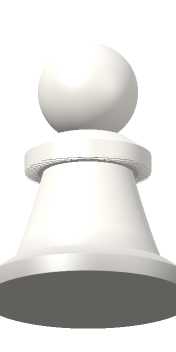
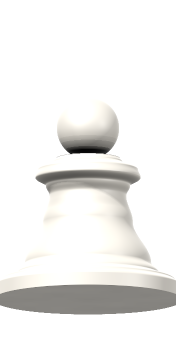
Hero: the chess pieces stand straight, and look more real
Each piece now undoes the board's turn as well as its tip, so it stands straight
to the eye. The renderer gains occlusion and self-shadow from the shape, a studio
reflection with a softbox, satin ivory with a faint grain, a clear coat on the
blue, Staunton curves and proportions, and a lighter lean toward the camera.

diff --git a/index.html b/index.html
@@ -212,11 +212,13 @@ fbq('track', 'PageView');
   /* Each piece is a photograph-like sprite, lit and shaded, rendered by hero_chess_pieces.js in the project folder (a ray
      marcher over a lathe profile): ivory for white, lacquered deep blue for the other side, on a transparent ground. It
      stands upright on the tilted board, with a soft pool of shadow flat on the board under its foot. */
-  .piece img { position: absolute; left: 4%; bottom: 4%; width: 92%; height: 184%; object-fit: contain; object-position: bottom; transform-origin: 50% 100%; transform: rotateX(-54deg); filter: drop-shadow(0 5px 6px rgb(0 0 0 / .5)); }
+  /* rotateZ(16deg) rotateX(-54deg) undoes the board's tip and turn exactly, so a piece stands straight to the eye (Barrett,
+     2026-09-23: "make the pieces look more upright"); the board's perspective still shrinks the far ones */
+  .piece img { position: absolute; left: 4%; bottom: 4%; width: 92%; height: 184%; object-fit: contain; object-position: bottom; transform-origin: 50% 100%; transform: rotateZ(16deg) rotateX(-54deg); filter: drop-shadow(0 5px 6px rgb(0 0 0 / .5)); }
   .piece::before { content: ""; position: absolute; left: 14%; right: 14%; top: 30%; bottom: 8%; border-radius: 50%; background: radial-gradient(closest-side, rgb(0 0 0 / .55), rgb(0 0 0 / 0)); }
   .piece.taken { opacity: 0; }
-  .piece.moving img { transition: transform .6s; transform: rotateX(-54deg) translateY(-14%); }
-  .piece.mated img { transition: transform .8s cubic-bezier(.4, .1, .3, 1), opacity .8s; transform: rotateX(-54deg) rotateZ(78deg) translateX(36%); opacity: .55; }
+  .piece.moving img { transition: transform .6s; transform: rotateZ(16deg) rotateX(-54deg) translateY(-14%); }
+  .piece.mated img { transition: transform .8s cubic-bezier(.4, .1, .3, 1), opacity .8s; transform: rotateZ(16deg) rotateX(-54deg) rotateZ(78deg) translateX(36%); opacity: .55; }
   .board-trail { position: absolute; width: 12.5%; height: 12.5%; left: calc(var(--f) * 12.5%); top: calc((7 - var(--r)) * 12.5%); background: rgb(143 188 255 / .28); box-shadow: 0 0 14px rgb(143 188 255 / .5); opacity: 0; transition: opacity .5s; }
   .board-trail.on { opacity: 1; }
   .board-note { margin: 10px 0 0; text-align: center; font-size: 13px; font-weight: 700; letter-spacing: .12em; text-transform: uppercase; color: var(--accent); opacity: 0; transition: opacity .5s; }

diff --git a/README.md b/README.md
@@ -583,12 +583,17 @@ two behind." It replaced a galaxy overture that was to burst into the colour, bu
   2.8 s the pieces walk back to their squares and another game begins. It rests while the hero is off screen.
 - The pieces are pictures, `assets/img/chess/{w,b}-{k,q,p}.png` (six sprites, 176x352, 18-40 KB each, transparent),
   made by `hero_chess_pieces.js` in the project folder: `node hero_chess_pieces.js`, plain Node, no packages. Each
-  piece is a solid turned on a lathe (its radius at every height, plus the king's cross and the queen's eight-pointed
-  crown), and a small ray marcher lights it with a key light, a fill, a rim and some sky, ivory for white and deep
-  lacquered blue for the other side (Barrett, 2026-09-23: "make the chess pieces photo-realistic"; flat white and blue
-  silhouettes came first, that afternoon). The other side is blue rather than black because a dark piece vanishes on a
-  dark board. Each sprite stands upright on the tilted board with a pool of shadow flat under its foot, and the sprite
-  leans 16 degrees toward the camera so its top shows. Change a profile or a material in the script and re-run it.
+  piece is a solid turned on a lathe, a smooth curve through control points for its radius at every height (Staunton
+  proportions: the king 1, the queen .93, the pawn .66), plus the king's cross and the queen's eight-pointed crown. A
+  small ray marcher lights it with a key light, a fill and a rim, takes occlusion and self-shadow from the shape itself,
+  and reflects a studio in it (a soft sky, a dark floor and one big softbox, the rectangle of light real photographs of
+  glossy things carry). White is satin ivory with a faint grain; the other side is deep blue under a clear coat, and is
+  blue rather than black because a dark piece vanishes on a dark board (Barrett, 2026-09-23: "make the chess pieces
+  photo-realistic", then "and more photo-realist"; flat silhouettes came first, that afternoon). The sprite leans 9
+  degrees toward the camera so its top shows. On the board each piece stands straight to the eye: its transform,
+  `rotateZ(16deg) rotateX(-54deg)`, undoes the board's turn and tip exactly ("make the pieces look more upright"), with
+  a pool of shadow flat under its foot and the board's perspective still shrinking the far ones. Change a profile or a
+  material in the script and re-run it.
 - Where it sits: on a phone, in the room under the buttons, `min(72vw, 40vh)` wide; from 1000px, beside the words on
   the right, `min(40vw, 66vh)`.
 - With reduced motion the pieces stand at their start squares and nothing plays.
